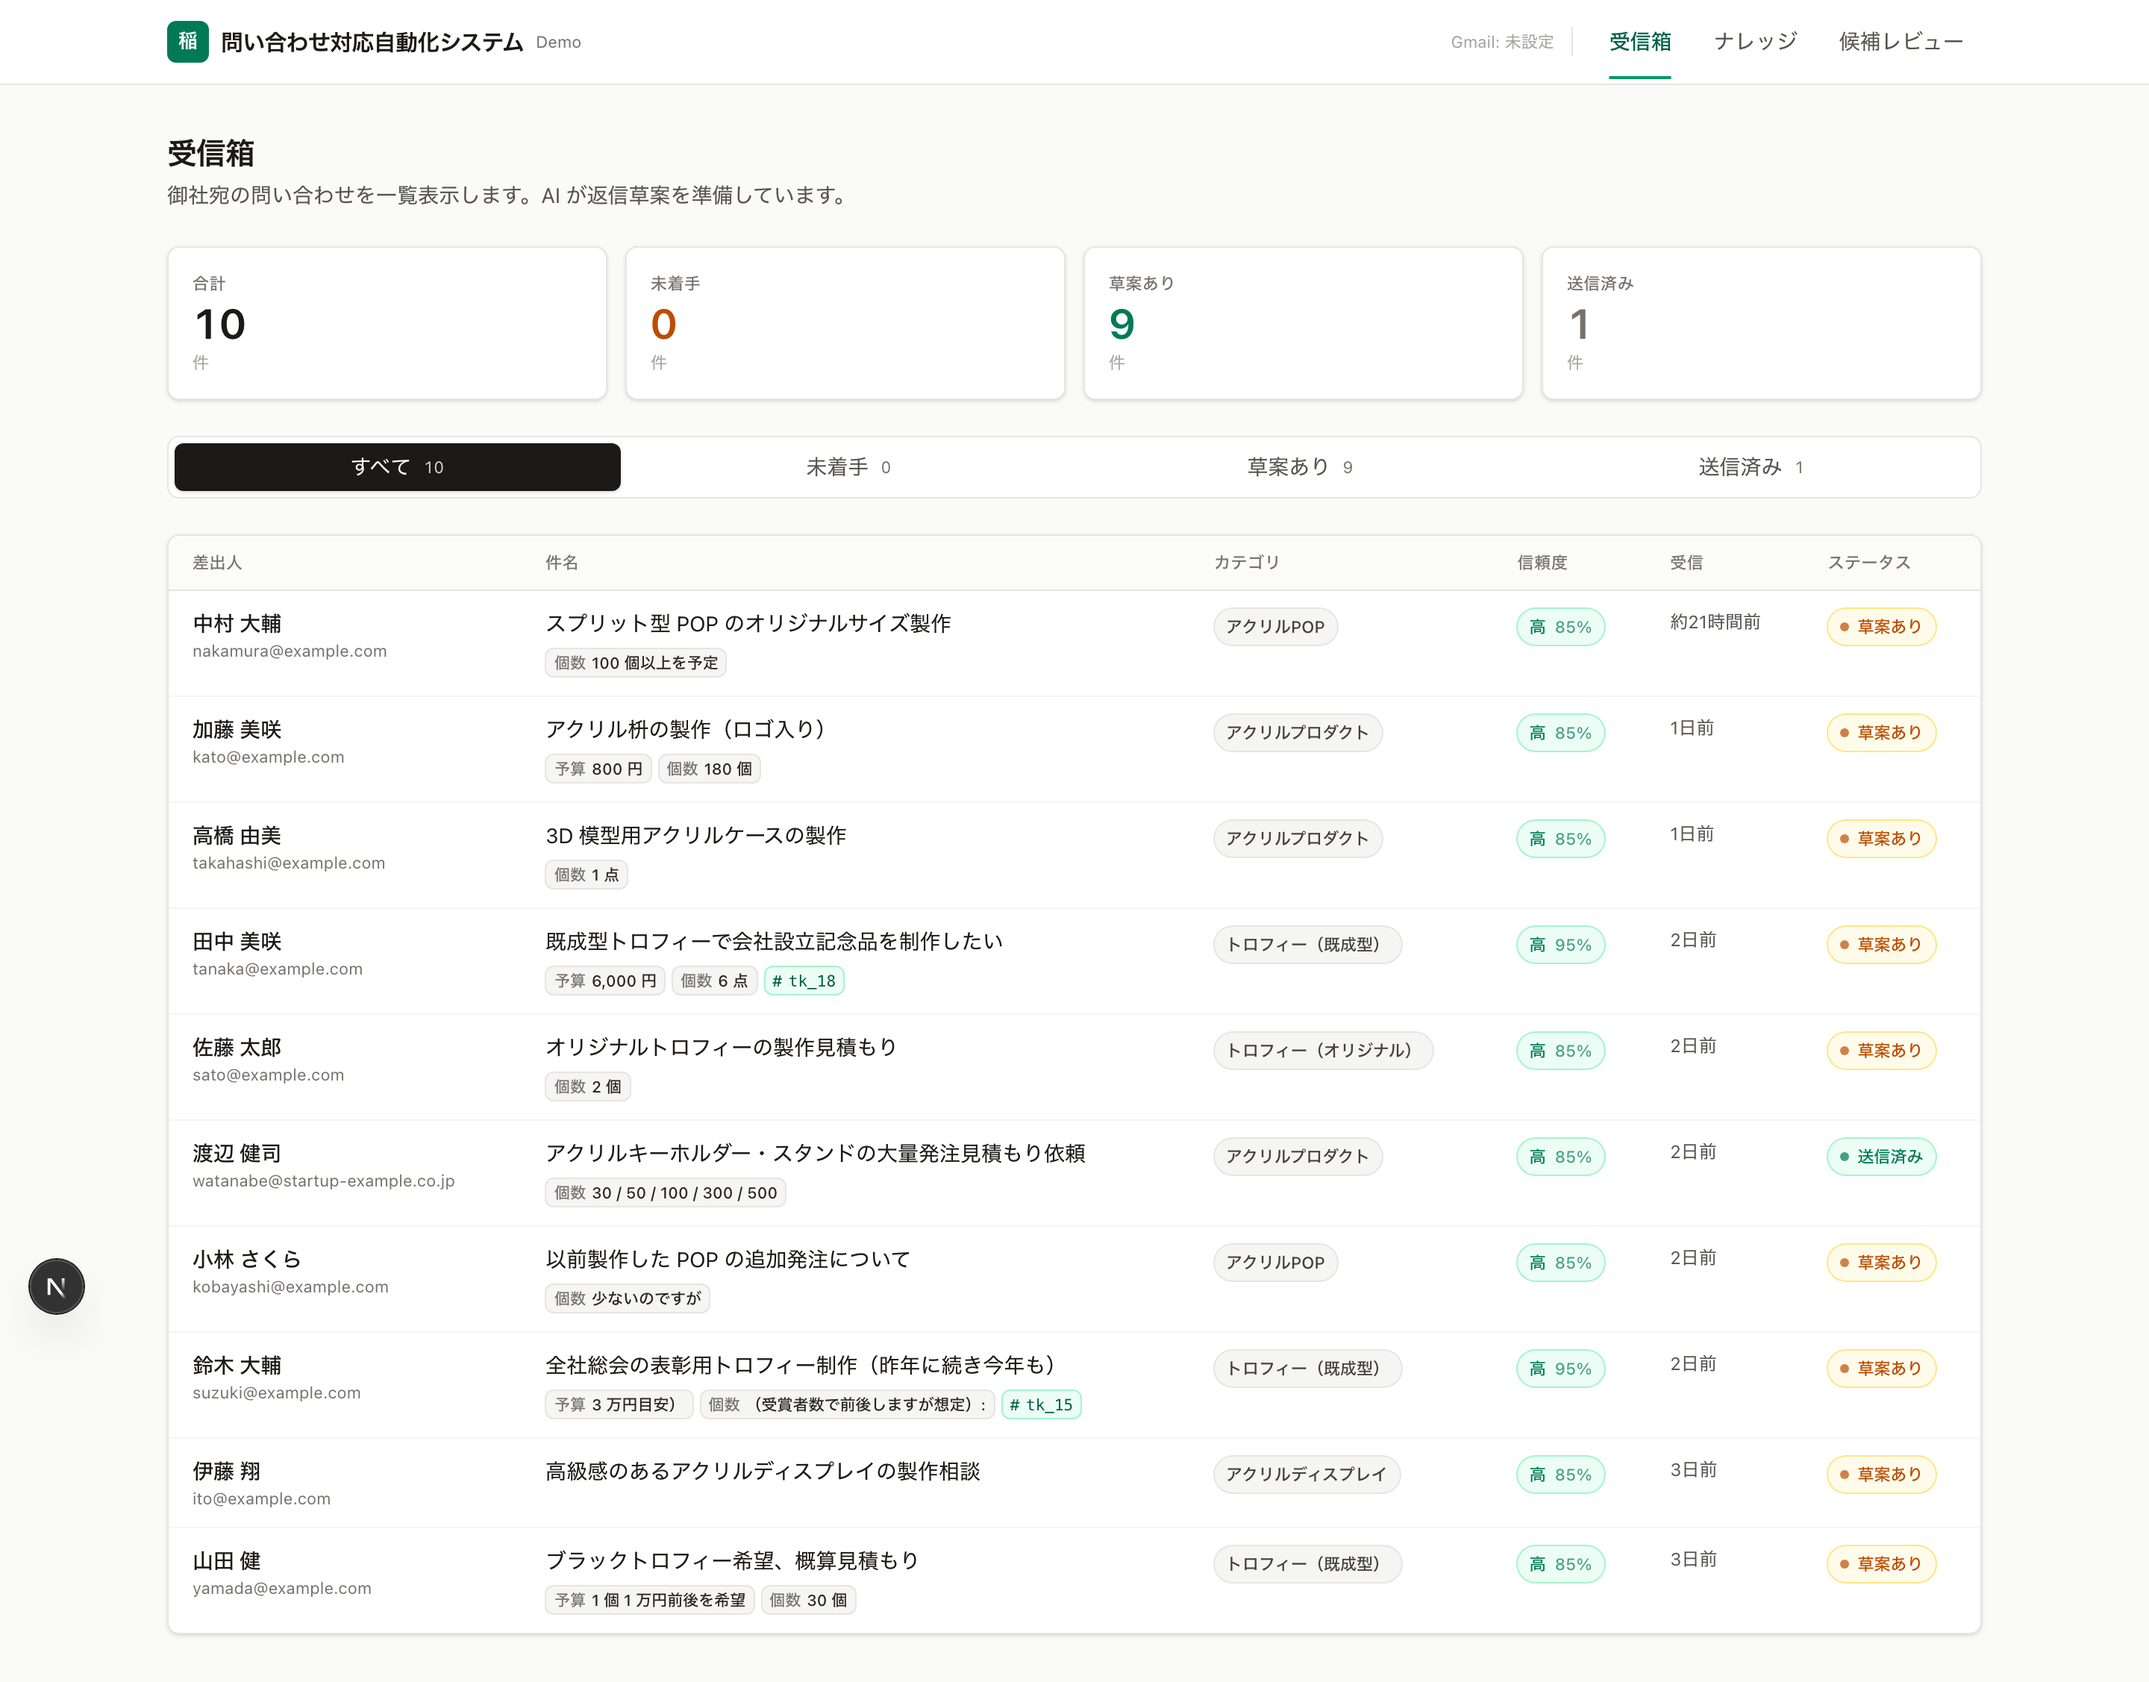
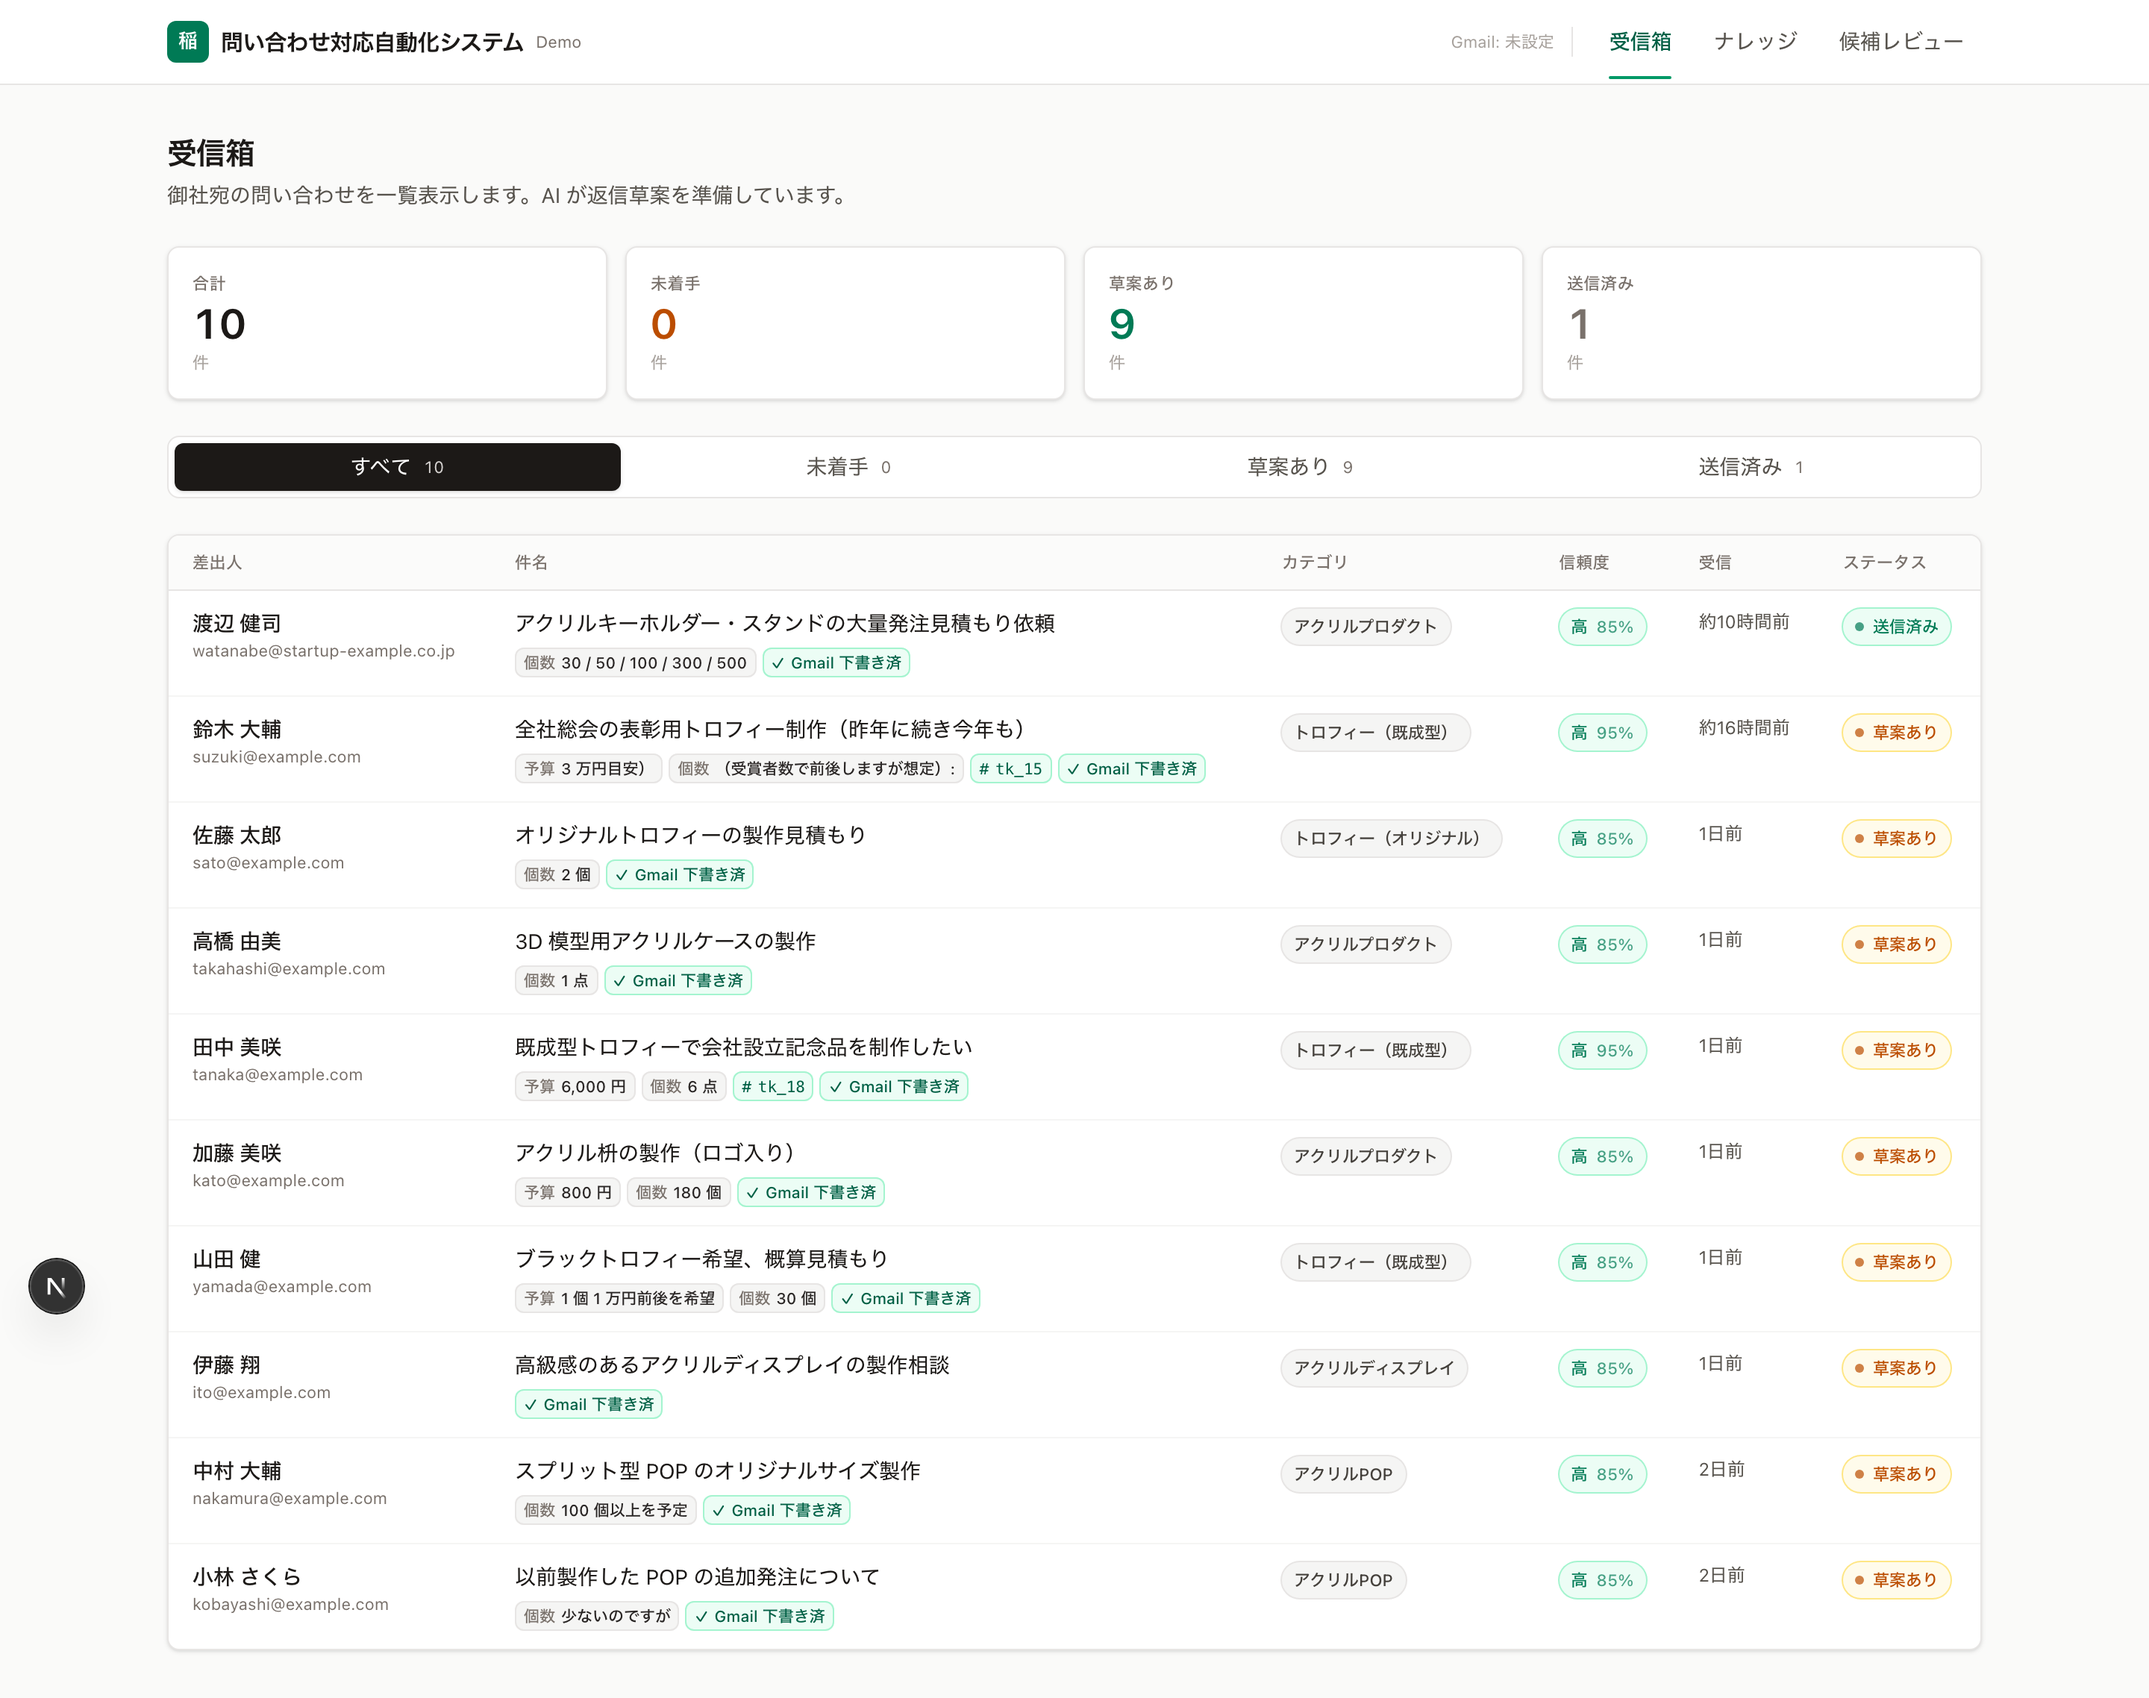
シードに Gmail 識別子を追加（提案資料用デモ）
- INQUIRIES 全 10 件に架空の gmailMessageId/gmailThreadId/gmailDraftId を付与
- 受信箱に「✓ Gmail 下書き済」ピル、詳細画面に「Gmail で開いて編集」ボタンが表示される状態に
- スクショ 9 枚を Gmail 連携 UI が映る形に再撮影

diff --git a/prisma/seed.ts b/prisma/seed.ts
@@ -447,6 +447,12 @@ async function main() {
     const meta = await extractMetadata(i);
     const classifiedName = await classifyInquiry(i, categoryNames);
 
+    // デモ用: Gmail 由来の問い合わせとして架空のメタを付与
+    //（Gmail 連携 UI が表示される状態を提示書で示すためのモック）
+    const idx = INQUIRIES.indexOf(i);
+    const fakeThreadHex = `1903${(0xbdef0000 + idx * 7919).toString(16).padStart(8, "0")}`;
+    const fakeDraftId = `r-${(8000000 + idx * 13).toString(16)}${(idx * 11 + 91).toString(16)}`;
+
     const inq = await prisma.inquiry.create({
       data: {
         fromName: i.fromName,
@@ -459,6 +465,10 @@ async function main() {
         summaryNote: meta.summaryNote,
         productRefs: meta.productRefs.length ? JSON.stringify(meta.productRefs) : null,
         receivedAt: new Date(Date.now() - Math.random() * 1000 * 60 * 60 * 48),
+        gmailMessageId: fakeThreadHex,
+        gmailMessageIdHeader: `<CAD${fakeThreadHex}@mail.gmail.example>`,
+        gmailThreadId: fakeThreadHex,
+        gmailDraftId: fakeDraftId,
       },
     });
 

diff --git a/scripts/take-screenshots.js b/scripts/take-screenshots.js
@@ -15,8 +15,8 @@ const MOBILE_VP = { width: 390, height: 844 };       // iPhone 14 Pro 相当
 const DESKTOP_VP = { width: 1440, height: 900 };
 
 // === 撮影対象ページ ===
-const NEW_INQUIRY_ID = 'cmogrtlu0000ky9rdqrc0djwd'; // 未送信 — 既成型トロフィー（tk_18 ヒット）
-const SENT_INQUIRY_ID = 'cmogrtluc000ny9rde2kx83i1'; // 送信済み — アクリルキーホルダー大量発注
+const NEW_INQUIRY_ID = 'cmoi8xvsq0018a5rdbmvdu3vl'; // 未送信 — 既成型トロフィー（tk_18 ヒット、Gmail 由来）
+const SENT_INQUIRY_ID = 'cmoi8xvsc000na5rdi3vrbal8'; // 送信済み — アクリルキーホルダー大量発注（Gmail 由来）
 
 const PAGES = [
   // デスクトップ
